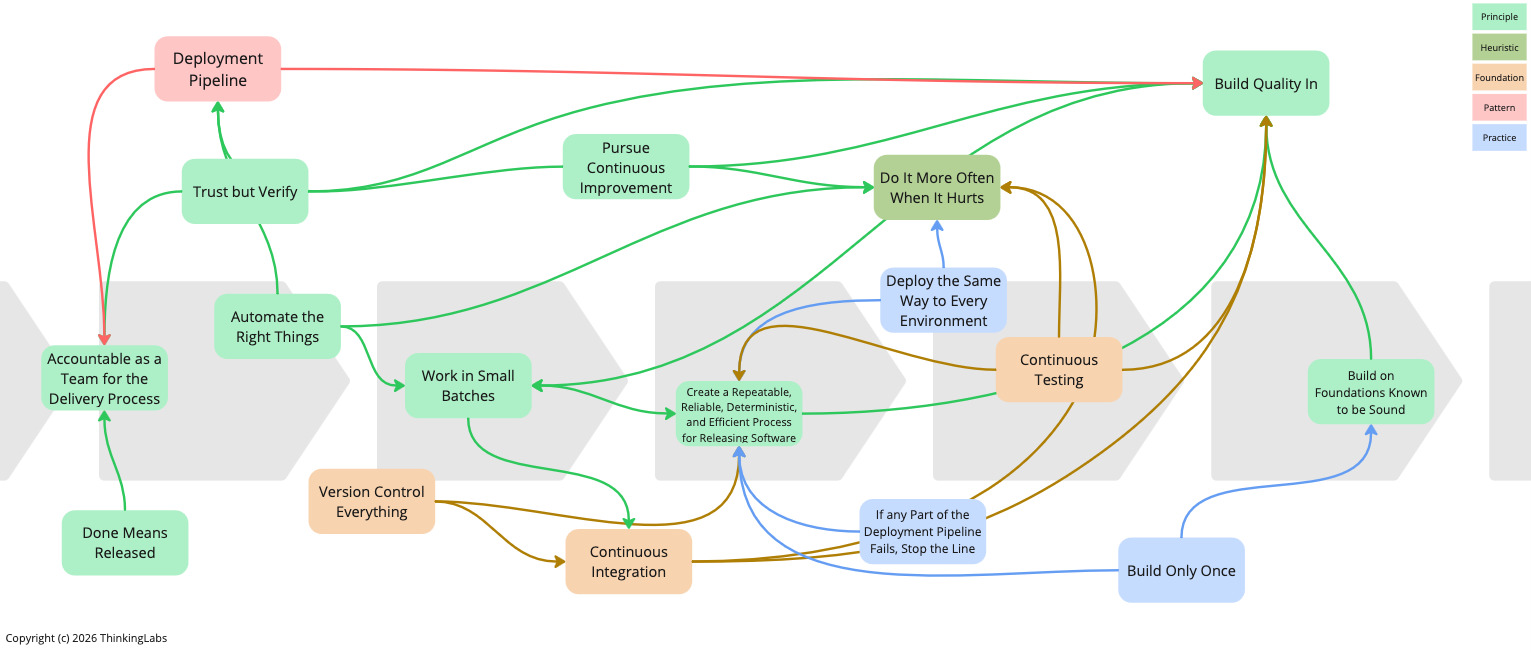
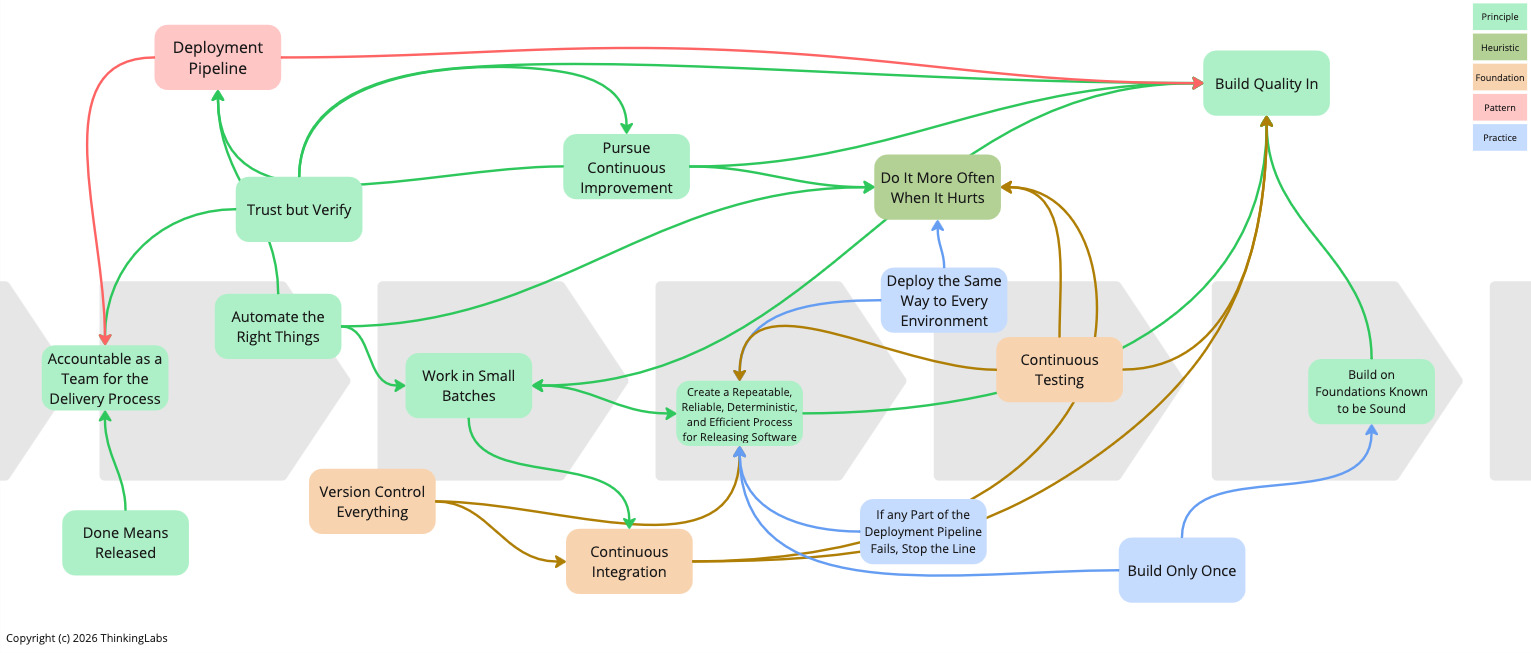
Flesh out trust but verify

diff --git a/_drafts/what-is-continuous-delivery.md b/_drafts/what-is-continuous-delivery.md
@@ -145,13 +145,15 @@ Again, it is significant that everyone from the team is involved and as such [*A
 
 ### Trust, but Verify
 
-This principle is not mentioned in the Continuous Delivery book. However, I find it particularly imperative as it constitutes the essence for enabling safety and courage, and [Accountability as a Team](#accountable-as-a-team-for-the-delivery-process), which inevitably leads to [Build Quality In](#build-quality-in) and innovation.
+This principle is not mentioned in the Continuous Delivery book. However, I find it particularly imperative as it constitutes the essence for enabling safety, courage, and [Accountability as a Team](#accountable-as-a-team-for-the-delivery-process), which are all required to [Pursue Continuous Improvement relentlessly](#pursue-continuous-improvement-relentlessly).
 
-It is the lack of trust that has initiated all sorts of unnecessary, wasteful activities to the process of getting code from Version Control into the hands of the users, which reduce feedback, impact quality, create fatigue, burnout and disengagement, slow down delivery, and finally bring organisations to a halt without them noticing it. Only to create some sort of sense of control. Not true control, just a sense.
+It is the lack of trust that has initiated all sorts of unnecessary, wasteful activities (such as blocking code reviews, quality gates, security reviews, change approval boards, biannual releases, etc.) to the process of getting code from Version Control into the hands of the users, which reduce feedback, impact quality, create fatigue, burnout and disengagement, slow down delivery, and finally bring organisations to a halt without them noticing it. Only to create some sort of sense of control. Not true control, just a sense.
+
+This lack of trust creates information silos, fosters hidden communication channels, gradually ceases innovation, and values the illusion of work over quality of effort (Wieczoreck 2025).
 
 > But, but ... people will dump rubbish.
 
-If that were the case, it would be a system problem. According to Deming, system problems are created by management. It is management's responsibility to remove barriers and constantly improve the system.
+If that were the case, it would be a system problem. According to Deming, system problems are created by management. This conveys that it is management's responsibility to remove barriers and constantly improve the system.
 
 > So the natural thought is just clogged up, totally clogged up.
 >
@@ -159,13 +161,23 @@ If that were the case, it would be a system problem. According to Deming, system
 >
 > -- Gorillaz, Stop the Dams
 
-Instead of thinking people are stupid and so we need a process to fix for that, we should trust that the people will do the right thing. This is applying [Management Theory Y over X](https://en.wikipedia.org/wiki/Theory_X_and_Theory_Y). Then, to verify that the trust is not abused, to ensure accountability, and to balance belief with due diligence to prevent errors or deceptions through monitoring, regular reviews, and audits.
+Instead of thinking people are stupid and so we need a process to fix for that, leadership should enable people to do the right thing and then trust they will do the right thing. This is about applying [Management Theory Y over X](https://en.wikipedia.org/wiki/Theory_X_and_Theory_Y). Then, to verify that the trust is not abused, to ensure accountability, and to balance belief with due diligence to prevent errors or deceptions through monitoring, regular reviews, and audits. But! This verify can also easily be misused to destroy the trust, especially if it comes from outside. Some teams might indeed abuse the autonomy and trust, not necessarily intentionally. Paved roads and guardrails introduced by platforms will help teams to do the right thing. In essence, it is more about following up, guiding teams, and giving them the benefit of the doubt.
 
 > Adopt and institute leadership.
 >
 > The job of management is not supervision, but leadership. Management must work on sources of improvement.
 >
 > -- Edwards Deming, Out of the Crisis, point 7 from the [14 Points for Management](https://deming.org/explore/fourteen-points/)
+
+Trust is a business's primary currency. Investors need it to ensure they are spending their money on the right companies. Clients need to know they are in safe hands to spend their budget. Staff need to hear their leadership has their backs if they are to execute on their company’s vision (Joshi, 2023).
+
+Together with accountability, it fosters a culture of openness, experimentation, learning, and, as a consequence, results in increased innovation and [Building Quality In](#build-quality-in). In conclusion, staff who feel trusted perform better, and in consequence, lead to higher organisational performance (Joshi, 2023).
+
+> ... [publicly traded] stocks of companies with a high trust work environment outperformed market indexes by a factor of three from 1997 through 2011 (Azzarello et al. 2012).
+>
+> Employee engagement is not just a feel-good metric - it drives business outcomes.
+>
+> -- Accelerate
 
 ## One Heuristic
 
@@ -291,7 +303,7 @@ This is the precise motive for [GitFlow](https://nvie.com/posts/a-successful-git
 
 It is key to use the same process to deploy to every environment, whether into testing environments or production, to ensure the build and deployment process has been tested effectively. We will deploy frequently to the test environment, but less to production. The frequency of deployment is inversely related to the risk associated with each environment. We deploy less frequently to production than to test environments. Before deploying to production, we will have tested the deployment many times in the upstream environments to discard the deployment script as a source of error.
 
-This means we must use the same script to deploy to each environment. Of course, environments differ from each other. For sure, they will have different IP addresses, but also different database connections and other external services. We keep these configurations outside of the deploy script in configuration files [under Version Control](#version-control-everything).
+This implies we must use the same script to deploy to each environment. Of course, environments differ from each other. For sure, they will have different IP addresses, but also different database connections and other external services. We keep these configurations outside of the deploy script in configuration files [under Version Control](#version-control-everything).
 
 As for build scripts to [*Automate the Build*]({% post_url 2022-09-28-the-practices-that-make-continuous-integration-building %}#practice-11-automate-the-build), the deploy script is treated the same way as code. It is versioned, tested, and evolves continuously through refactoring. We apply similar design principles as for code, such as abstractions, small files, [Cohesion and Coupling](https://wiki.c2.com/?CouplingAndCohesion), [Simple Design](https://wiki.c2.com/?SimpleDesign), and [Single Responsibility Principle](https://en.wikipedia.org/wiki/Single-responsibility_principle).
 
@@ -323,9 +335,14 @@ Once we fathom all of that, the rest will follow, naturally. It becomes a virtuo
 
 - [The Deployment Production Line](https://dannorth.net/profile/deployment_production_line.pdf), Jez Humble, Daniel North, Chris Read
 - [Continuous Delivery: Reliable Software Releases Through Build, Test, and Deployment Automation](https://app.thestorygraph.com/books/77eb0975-4194-42e7-9db3-005d4250940f), Dave Farley, Jez Humble
+- [Accelerate: Building and Scaling High Performing Technology Organizations](https://app.thestorygraph.com/books/0baa7f2a-3f3f-4752-9d81-0434117d0648), Nicole Forsgren, PhD, Jez Humble, Gene Kim
 - [Out of the Crisis](https://app.thestorygraph.com/books/b79ebdec-b267-4585-9af4-b5b68b30f5e5), Edwards Deming
 - [The Principles of Product Development Flow](https://app.thestorygraph.com/books/63ab42fd-34e7-40e3-b86e-5be510f5c119), Donald Reinertsen
 - [Continuous Testing in DevOps](https://danashby.co.uk/2016/10/19/continuous-testing-in-devops/), Dan Ashby
+- [A typology of organisational cultures](https://pmc.ncbi.nlm.nih.gov/articles/PMC1765804/pdf/v013p0ii22.pdf), R. Westrum, 2004
+- [The effects of low trust in organisations](https://www.winningtemp.com/blog/the-effects-of-low-trust-in-organisations), Rahat Joshi, 2023
+- [5 Hidden Consequences Of Leaders Not Trusting Employees](https://www.forbes.com/sites/katewieczorek/2025/11/30/5-hidden-consequences-of-leaders-not-trusting-employees/), Kate Wieczorek, 2025
+- [The chemistry of enthousiasm](https://www.bain.com/insights/the-chemistry-of-enthusiasm/), Dominico Azzarello, Frédéric Debruyne, Ludovica Mottura, 2012
 
 ## Definitions
 
